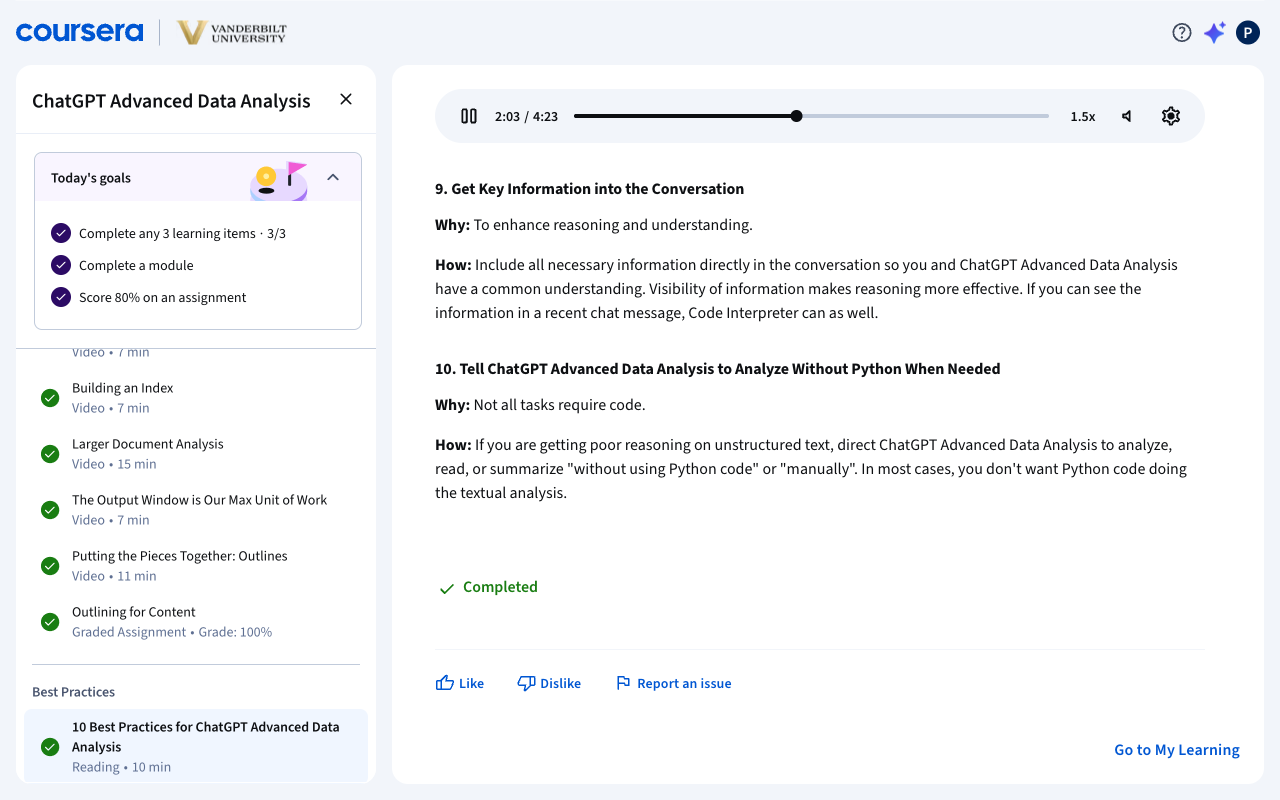
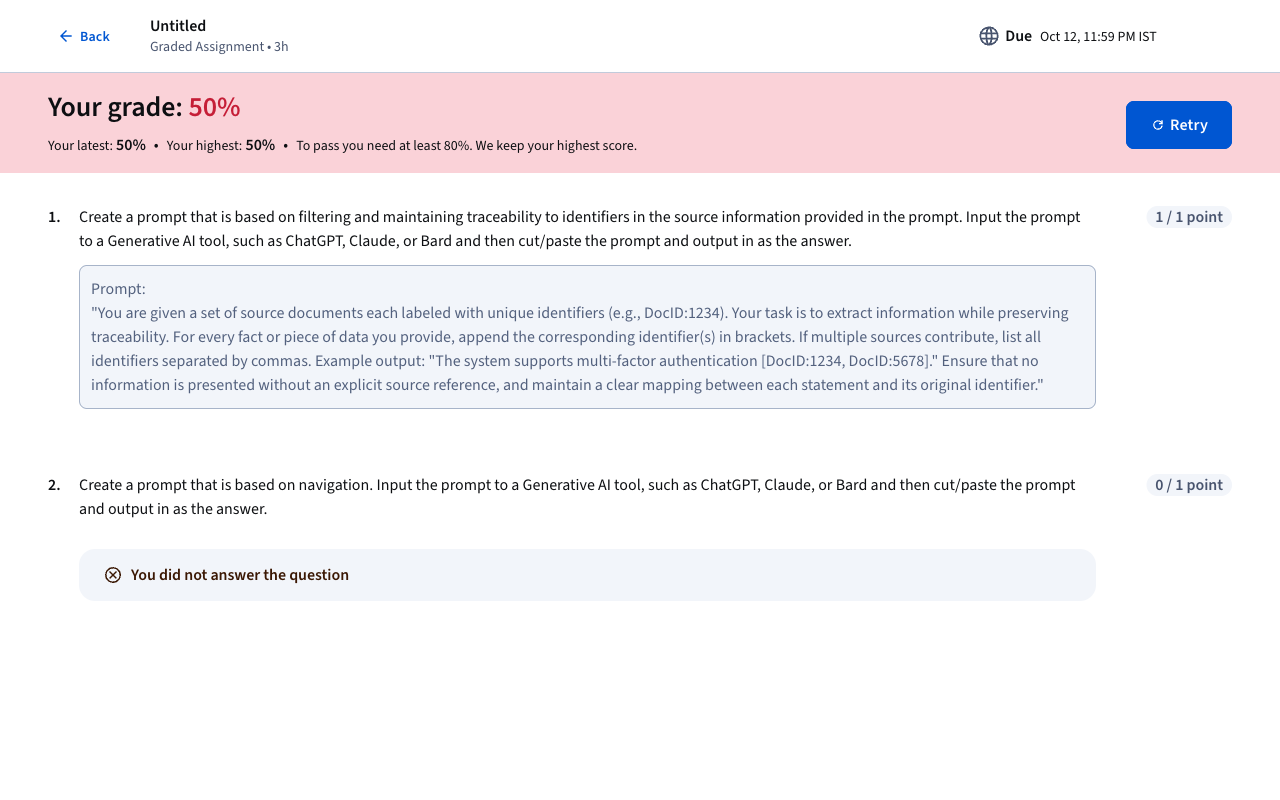
h

diff --git a/coursera_automation/items/quiz/groq_solver.py b/coursera_automation/items/quiz/groq_solver.py
@@ -23,7 +23,7 @@ def _call_groq(cfg: Settings, prompt: str) -> dict[int, list[str]]:
     headers = {"Authorization": f"Bearer {cfg.groq_api_key}", "Content-Type": "application/json"}
     payload = {
         "model": cfg.groq_model, "messages": [{"role": "user", "content": prompt}],
-        "temperature": 0.2, "max_completion_tokens": 4096, "reasoning_effort": "low",
+        "temperature": 0.2, "max_completion_tokens": 4096, "reasoning_effort": "high",
         "response_format": {"type": "json_object"},
     }
     resp = requests.post(url, headers=headers, json=payload, timeout=60)

diff --git a/tests/test_quiz_groq_solver.py b/tests/test_quiz_groq_solver.py
@@ -28,7 +28,7 @@ def test_query_groq_success() -> None:
         call_args = mock_post.call_args
         assert call_args[1]["headers"]["Authorization"] == "Bearer test-groq-key"
         assert call_args[1]["json"]["model"] == "openai/gpt-oss-120b"
-        assert call_args[1]["json"]["reasoning_effort"] == "low"
+        assert call_args[1]["json"]["reasoning_effort"] == "high"
         assert call_args[1]["json"]["max_completion_tokens"] == 4096
         assert call_args[1]["timeout"] == 60
 
